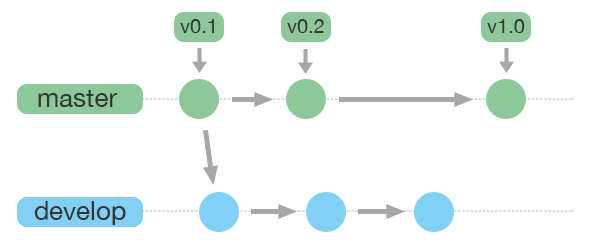
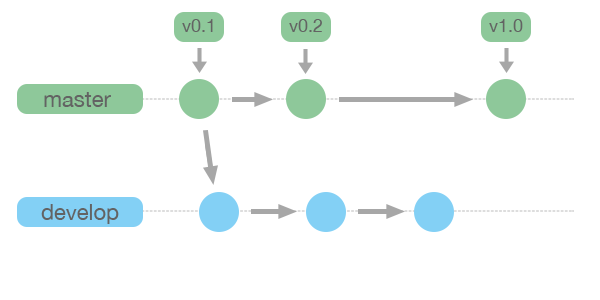
Add better images

Changed region(s): [[0.03, 0.0292, 0.96, 0.9625], [0.03, 0.6417, 0.24, 0.7583]]

diff --git a/_drafts/flavored-git-flow-german.md b/_drafts/flavored-git-flow-german.md
@@ -36,7 +36,7 @@ Der **`release/`** Ordner wird beim Deployment einer fertigen Version verwendet.
 {% include image.html
             img="assets/git-flow-release.png"
             title="develop"
-            caption="Meist begegnet man SVN, Git oder Mercurial" %}
+            caption="Da man Änderungen im develop Branch nie direkt in den master Branch merged erstellt man zum überbrücken einen release Branch. Änderungen an diesem werden automatisch in master und develop gemerged." %}
 </center>
 
 Der **`hotfix/`** Ordner ist für das Beheben von zeitkritischen Fehlern bei bereits veröffentlichter Software gedacht. Betreibt man zum Beispiel aktuell Version 1.5 im Store und hat Version 2.0 derzeit in Entwicklung und stellt einen schwerwiegenden Fehler fest, den man schnell in der veröffentlichten Version (1.5) beheben aber auch in künftigen Versionen (2.x) ausschließen möchte, so führt man die Commits für den Fix etwa im Beispiel von abgelaufenen Zertifikaten im Branch `hotfix/expired-certificates` durch. Der Branch hat als Ursprung nicht (wie bei `release/` Branches) den `develop` Branch sondern den `master` Branch und wird nach Fertigstellung des Fixes (genauso wie bei `release/` Branches) sowohl in den `master` als auch in den `develop` Branch gemerged. Auch um diesen doppelten Merge kümmern sich die Git-Flow Skripte automatisch.
@@ -45,7 +45,7 @@ Der **`hotfix/`** Ordner ist für das Beheben von zeitkritischen Fehlern bei ber
 {% include image.html
             img="assets/git-flow-hotfix.png"
             title="develop"
-            caption="Meist begegnet man SVN, Git oder Mercurial" %}
+            caption="hotfix Branches basieren nicht auf dem " %}
 </center>
 
 Der **`support/`** Ordner ist eine schon seit Jahren als Beta markierte Funktion von Git-Flow, deren Ziel es ist mehrere veröffentlichte Versionen einer Software mit Updates zu versorgen. Ohne die Nutzung von `support/` Branches kann immer nur eine aktuelle Version in einem Git-Projekt verwaltet werden (was im Falle von Apps für den Apple App Store und den Google Play Store auch ausreichend ist). Dennoch können `support/` Branches auch bei der Verwaltung von Apps nützlich sein, wenn ein Git-Projekt für mehrere Apps im Store benutzt wird, etwa um die gleiche App mehrmals für unterschiedliche Firmen gebrandet zu veröffentlichen. In diesem Fall wird das Branding z.B. für die Firmen Jamit Labs und Apple in den Branches `support/jamit_labs` und `support/apple` durchgeführt. Wird die App-Logik verändert können die Änderungen im `develop` Branch leicht in die verschiedenen `support/` Branches gemerged werden, wodurch man die Arbeit nicht doppelt (oder n-fach) durchführen muss, sondern nur einmal.
@@ -122,7 +122,7 @@ Wie bei `work/`und `deploy/` wurde wieder ein Verb als Ordnername gewählt.
 {% include image.html
             img="assets/git-flow-overview.png"
             title="develop"
-            caption="Abschließend nochmal alle verschiedenen Arten von Branches im Zusammenhang (mit der neuen Benennung)" %}
+            caption="Abschließend noch einmal alle verschiedenen Arten von Branches im Zusammenhang (mit der neuen Benennung)" %}
 </center>
 
 ### Weiterführende Links und Quellen
